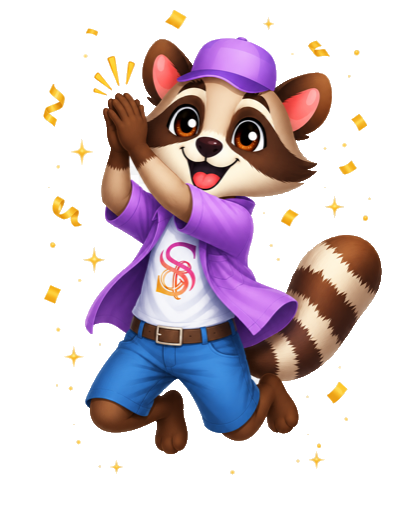
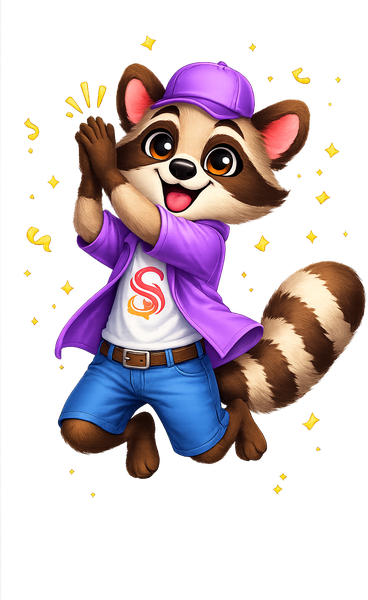
Маскот: новая поза spiky-cheer (high-five, прозрачный фон + искорки) от user + кэш v5

diff --git a/sw.js b/sw.js
@@ -2,7 +2,7 @@
 // Стратегия: КОД (html/js/css/json) — network-first с обходом HTTP-кэша (online всегда свежая
 // версия → лечит 10-мин кэш GitHub Pages; кэш = офлайн-фолбэк). АССЕТЫ (png/jpg/mp3/svg) —
 // cache-first (не меняются). Чужие origin (воркеры, аудио ФИПИ) — не трогаем.
-const CACHE = 'ss-cache-v4';
+const CACHE = 'ss-cache-v5';
 
 self.addEventListener('install', () => self.skipWaiting());
 